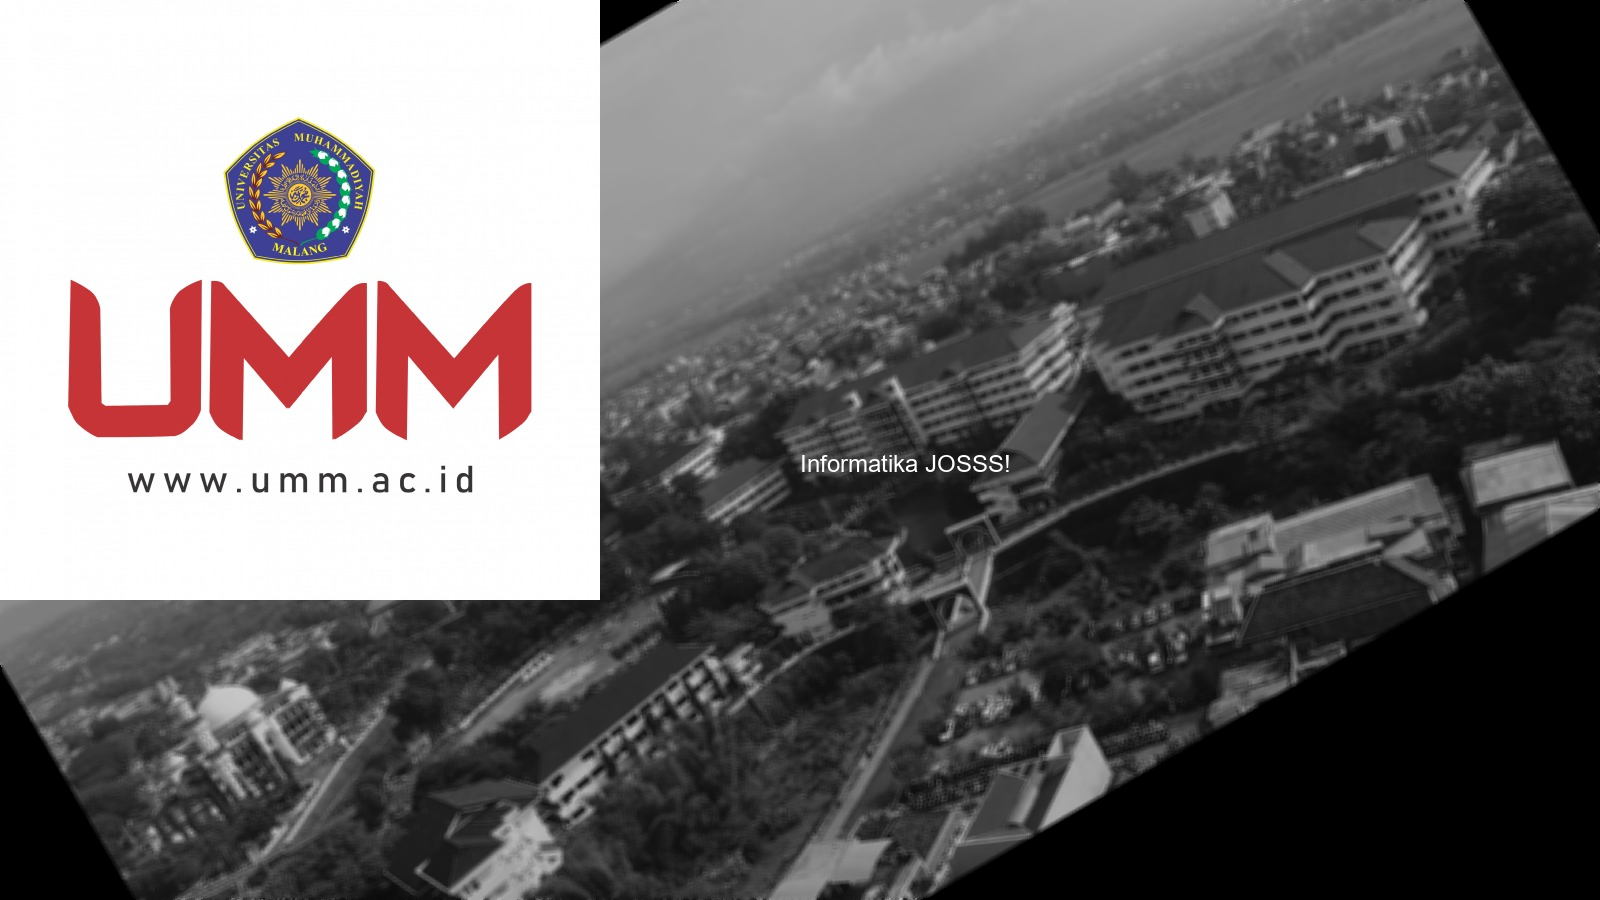
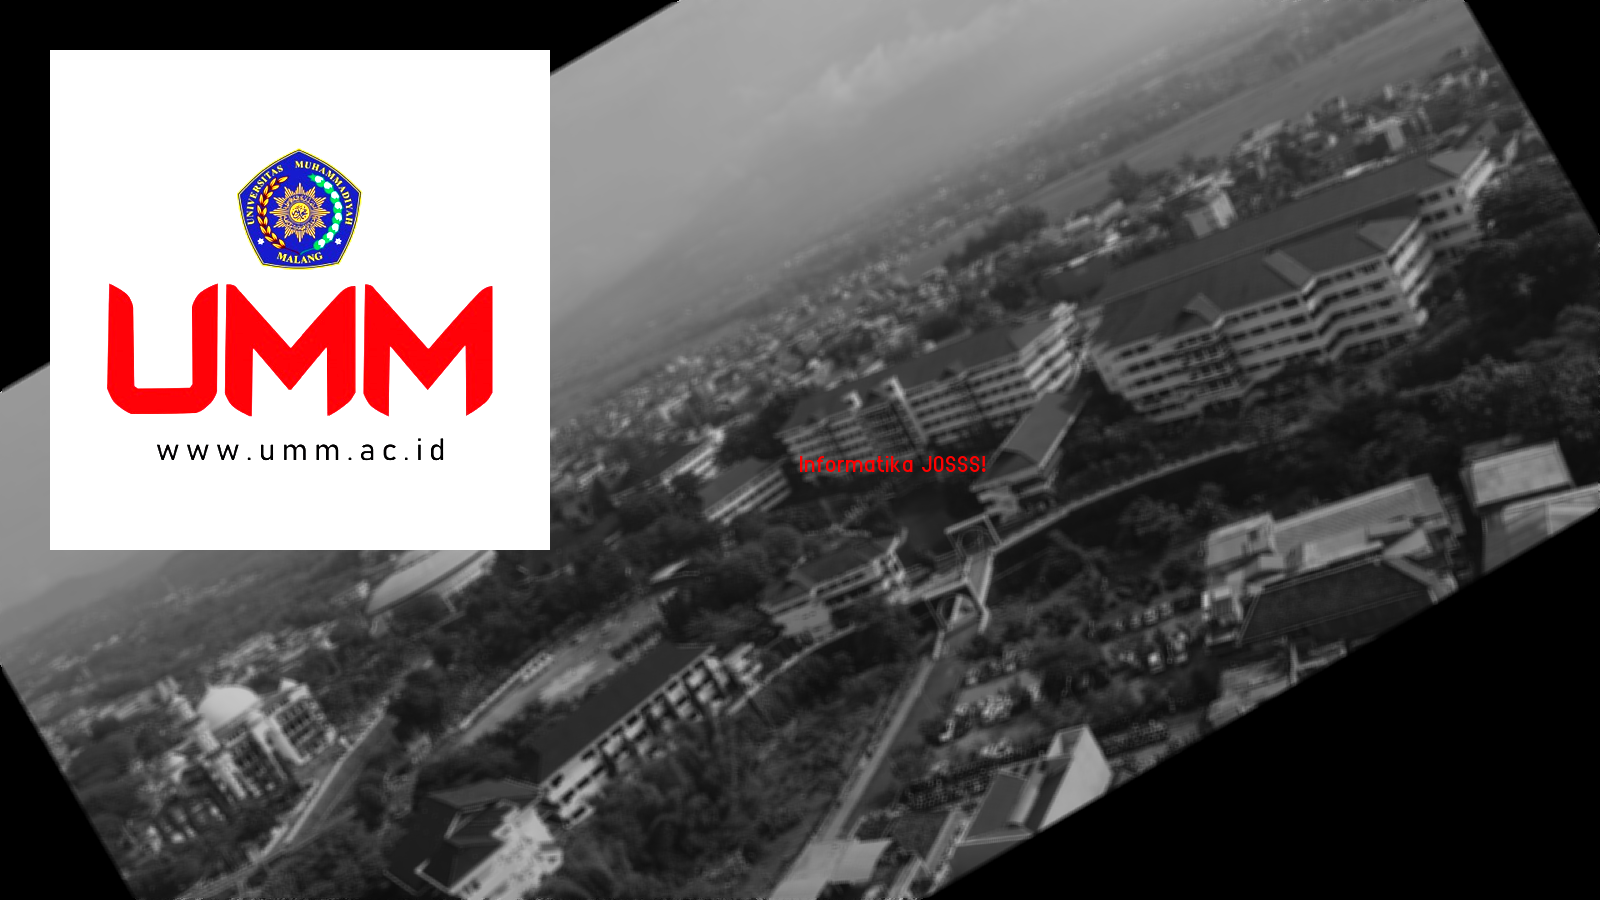
Changes

Changed region(s): [[0.0, 0.0, 0.375, 0.6844], [0.5, 0.4978, 0.625, 0.5289]]

diff --git a/Modul 6/Praktikum/Keg1.py b/Modul 6/Praktikum/Keg1.py
@@ -1,24 +1,21 @@
 from PIL import Image, ImageEnhance, ImageDraw, ImageFont, ImageFilter
 
-# TODO 0: Import library lain yang dibutuhkan
-
-# TODO 1: Buka kedua gambar menggunakan Pillow
 background_image_path = r"D:\Eureka\Semester5\Fungsional\Modul 6\Assets\Images\umm.jpg"  # Ganti path sesuai lokasi gambar background
 overlay_image_path = r"D:\Eureka\Semester5\Fungsional\Modul 6\Assets\Images\logo_umm.jpg"  # Ganti path sesuai lokasi gambar overlay
 
 background_image = Image.open(background_image_path)
 overlay_image = Image.open(overlay_image_path)
 
-overlay_image = overlay_image.convert("RGBA")
+background_image = background_image.convert('L')
+background_image = background_image.rotate(30)
+background_image = background_image.filter(ImageFilter.BLUR)
 
-# TODO 2: Ubah gambar background
-background_image = background_image.convert('L')  # Grayscale
-background_image = background_image.rotate(30)  # Rotasi 30 derajat
-background_image = background_image.filter(ImageFilter.BLUR)  # Blur
+overlay_width = 500
+overlay_height = 500
+overlay_image = overlay_image.resize((overlay_width, overlay_height))
 
-# TODO 3: Ubah tingkat kecerahan dan kontras gambar overlay
-brightness_factor = 1.45  # Ganti dengan 2 digit NIM bagian belakang
-contrast_factor = 1.45  # Ganti dengan 2 digit NIM bagian belakang
+brightness_factor = 1.45
+contrast_factor = 1.45
 
 brightness_enhancer = ImageEnhance.Brightness(overlay_image)
 brightened_overlay = brightness_enhancer.enhance(brightness_factor)
@@ -26,23 +23,19 @@ brightened_overlay = brightness_enhancer.enhance(brightness_factor)
 contrast_enhancer = ImageEnhance.Contrast(brightened_overlay)
 final_overlay = contrast_enhancer.enhance(contrast_factor)
 
-# Resize sesuai kebutuhan
-result_image = Image.new("RGBA", background_image.size, (0, 0, 0, 0))
+result_image = Image.new("RGB", background_image.size, (0, 0, 0))
 
-# TODO 4: Sisipkan gambar overlay ke dalam gambar background
 position = (50, 50)
 result_image.paste(background_image, (0, 0))
-result_image.paste(overlay_image, overlay_image)
+result_image.paste(final_overlay, position)
 
-# TODO 5: Tambahkan teks pada gambar overlay
 draw = ImageDraw.Draw(result_image)
-font = ImageFont.truetype("arial.ttf", size=24)
+font = ImageFont.truetype(r"D:\Eureka\Semester5\Fungsional\Modul 6\Assets\Font\arial_narrow_7.ttf", size=24)
 text = "Informatika JOSSS!"
 text_x = (result_image.width) // 2
 text_y = (result_image.height) // 2
-draw.text((text_x, text_y), text, font=font, fill="white")
+draw.text((text_x, text_y), text, font=font, fill="red")
 
-# TODO 6: Simpan gambar hasil edit
 save_path = r"D:\Eureka\Semester5\Fungsional\Modul 6\Assets\Hasil\tugas_praktikum_enam.png"
 result_image.save(save_path)
 

diff --git a/Modul 5/Praktikum/Keg1.py b/Modul 5/Praktikum/Keg1.py
@@ -18,5 +18,5 @@ plt.title('Diagram Batang Nilai Ujian Mahasiswa')
 plt.xticks(rotation=45, ha="right")
 plt.axhline(y=rata_rata, color='r', linestyle='--', label=f'Rata-rata: {rata_rata:.2f}')
 plt.legend()
-plt.tight_layout()  # Menyesuaikan tata letak untuk menghindari tumpang tindih
+plt.tight_layout()
 plt.show()
